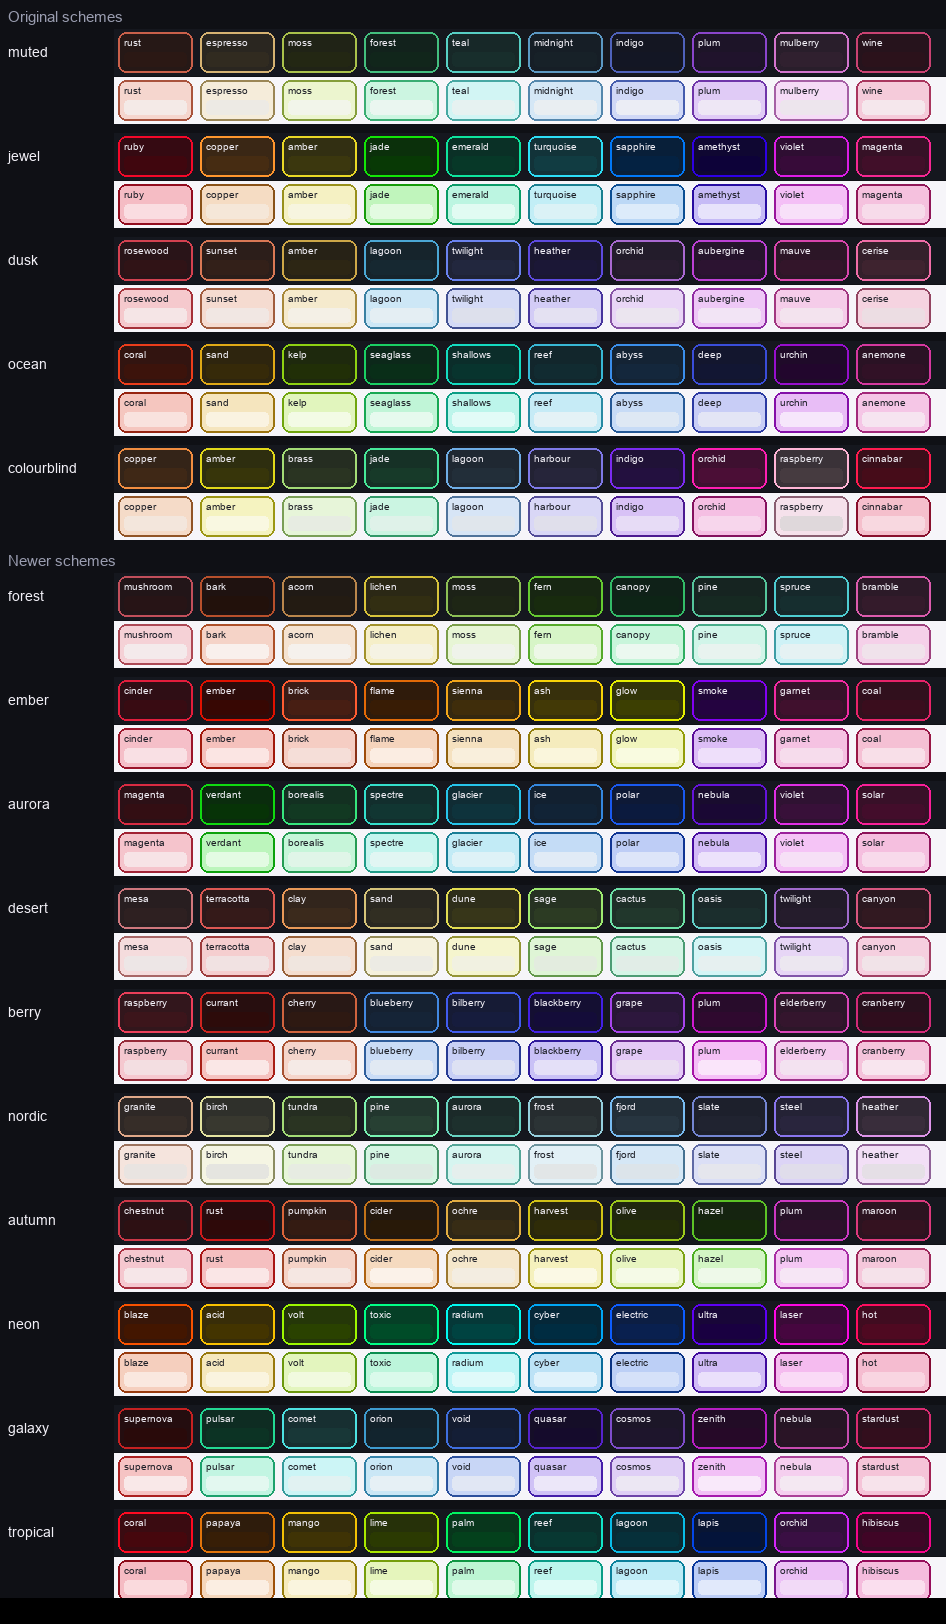
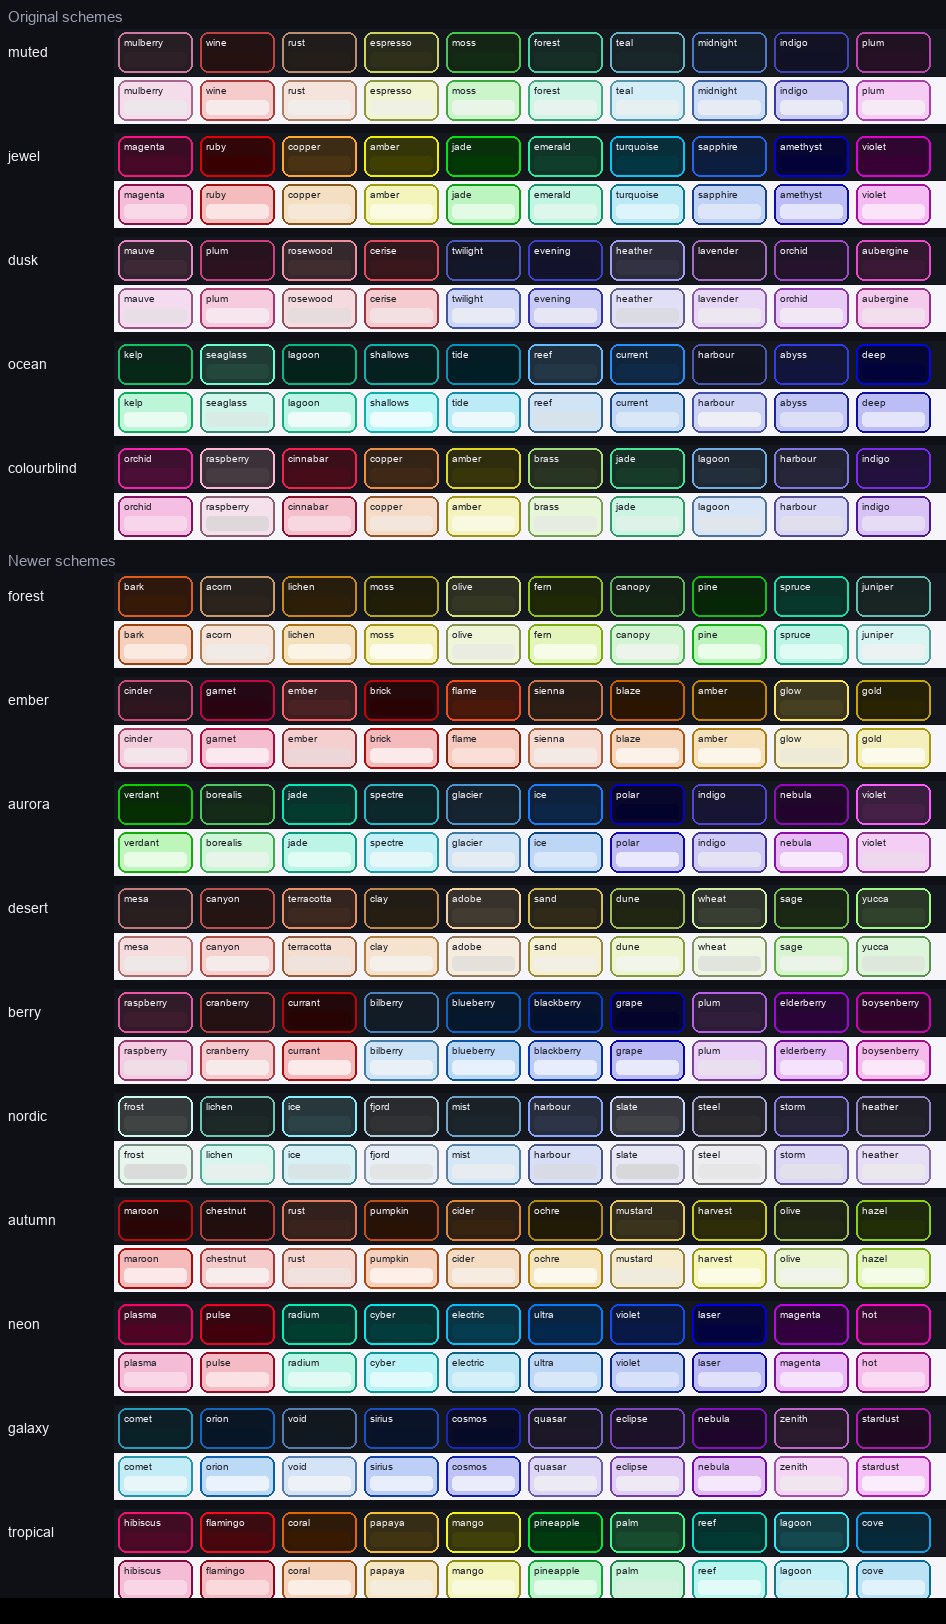
Keep each themed scheme inside its own colour range
Ocean is now only blues and teals, ember only reds and oranges, forest
only greens and browns, nordic only cool greys, and so on. Inside a range
the cards are told apart by lightness and strength as well as hue, and
every pair still passes the distinctness test in both modes. Muted, jewel
and colourblind keep the full rainbow. Palettes are stored interleaved so
neighbouring tabs get far-apart colours.

Changed region(s): [[0.1226, 0.0, 1.0, 0.9852], [0.6131, 0.2155, 0.6438, 0.2463], [0.3066, 0.5542, 0.3372, 0.585]]

diff --git a/scripts/tint.py b/scripts/tint.py
@@ -27,25 +27,25 @@ STATE_DIR = w.TINT_DIR
 # Each scheme lists its dark tab backgrounds as (name, hex). The light mode of a
 # scheme uses the same hues as soft light backgrounds, made by light_of().
 DARK = {
-    # Dark, quiet backgrounds.
+    # Soft, greyish colours from every part of the rainbow. The default.
     "muted": [
-        ("midnight", "172128"), ("plum", "20132c"), ("forest", "11261b"), ("wine", "2b121b"), ("teal", "182e2c"),
-        ("espresso", "312b20"), ("indigo", "131624"), ("moss", "232713"), ("rust", "2b1814"), ("mulberry", "30202f"),
+        ("mulberry", "2d2026"), ("forest", "162e26"), ("wine", "261111"), ("teal", "1a272a"), ("rust", "241e1a"),
+        ("midnight", "141d2c"), ("espresso", "2f301a"), ("indigo", "111126"), ("moss", "132a14"), ("plum", "251123"),
     ],
-    # Deeper, more saturated colours that are easy to tell apart.
+    # Deep, rich colours from every part of the rainbow.
     "jewel": [
-        ("sapphire", "042242"), ("emerald", "073828"), ("ruby", "40060e"), ("amethyst", "0d0239"), ("amber", "3b370e"),
-        ("turquoise", "113c42"), ("jade", "083905"), ("violet", "370b39"), ("copper", "462c12"), ("magenta", "410f29"),
+        ("magenta", "470926"), ("emerald", "0f3e2c"), ("ruby", "390001"), ("turquoise", "033643"), ("copper", "4a3312"),
+        ("sapphire", "0c1e40"), ("amber", "3e3f00"), ("amethyst", "020138"), ("jade", "023905"), ("violet", "380035"),
     ],
-    # Twilight purples and roses, with sunset orange and amber.
+    # Only purples, lilacs, mauves and dusty roses.
     "dusk": [
-        ("twilight", "22273e"), ("orchid", "281d2f"), ("rosewood", "301316"), ("lagoon", "162831"), ("heather", "1b1736"),
-        ("sunset", "332019"), ("mauve", "33152a"), ("amber", "2d2614"), ("aubergine", "2c1331"), ("cerise", "3e232f"),
+        ("twilight", "141629"), ("aubergine", "3b1835"), ("evening", "12122d"), ("mauve", "3c2935"), ("heather", "333242"),
+        ("plum", "2c121e"), ("lavender", "241b29"), ("rosewood", "402d30"), ("orchid", "24132b"), ("cerise", "39171c"),
     ],
-    # Sea blues and teals, with coral, sand, kelp and urchin.
+    # Only sea greens, teals and blues, from shallows to the deep.
     "ocean": [
-        ("abyss", "14273c"), ("shallows", "08342e"), ("coral", "3c130b"), ("kelp", "212f07"), ("deep", "121633"),
-        ("sand", "362a09"), ("urchin", "22062d"), ("seaglass", "092e18"), ("anemone", "311126"), ("reef", "112b31"),
+        ("kelp", "062817"), ("reef", "243747"), ("seaglass", "24473c"), ("current", "0f2a46"), ("lagoon", "03231a"),
+        ("harbour", "111321"), ("shallows", "042120"), ("abyss", "11143d"), ("tide", "011e26"), ("deep", "000239"),
     ],
     # Ten hues picked by simulating protanopia, deuteranopia and tritanopia, so
     # every pair of card colours stays as different as ten colours allow for each.
@@ -53,55 +53,55 @@ DARK = {
         ("cinnabar", "460c19"), ("copper", "3f2816"), ("amber", "37350a"), ("brass", "2a3422"), ("jade", "173a29"),
         ("lagoon", "222e39"), ("harbour", "26253a"), ("indigo", "23103f"), ("orchid", "4b0e36"), ("raspberry", "463b40"),
     ],
-    # Pines, mosses, bark and mushrooms.
+    # Only greens and woody browns.
     "forest": [
-        ("pine", "162922"), ("fern", "182b0e"), ("moss", "1e2615"), ("bark", "22110b"), ("lichen", "322e12"),
-        ("spruce", "162e2f"), ("bramble", "341b2b"), ("acorn", "231b12"), ("canopy", "0d2416"), ("mushroom", "271416"),
+        ("bark", "371908"), ("fern", "1f2906"), ("acorn", "2c241c"), ("canopy", "142314"), ("lichen", "2d1f07"),
+        ("pine", "062606"), ("moss", "201e06"), ("spruce", "08382b"), ("olive", "343723"), ("juniper", "182523"),
     ],
-    # Fire reds, flame oranges, coal and smoke.
+    # Only fire colours: reds, oranges and golds.
     "ember": [
-        ("ember", "370703"), ("flame", "381c05"), ("ash", "423906"), ("coal", "3a0d1d"), ("glow", "3c3f02"),
-        ("cinder", "380b12"), ("smoke", "240340"), ("brick", "471e13"), ("garnet", "40102d"), ("sienna", "3f2d0b"),
+        ("garnet", "290410"), ("sienna", "2e1d15"), ("cinder", "2f151e"), ("blaze", "2c1500"), ("ember", "4a2224"),
+        ("amber", "2c1d00"), ("brick", "290304"), ("glow", "474020"), ("flame", "4a1909"), ("gold", "292301"),
     ],
-    # Northern-lights greens, glacier blues and violets.
+    # Only northern-lights colours: greens, teals, blues and violets.
     "aurora": [
-        ("borealis", "123922"), ("glacier", "0e333c"), ("polar", "0b1a3e"), ("nebula", "1a0834"), ("solar", "430d2b"),
-        ("spectre", "113632"), ("violet", "381039"), ("ice", "112336"), ("verdant", "073307"), ("magenta", "330e13"),
+        ("verdant", "052e02"), ("ice", "0b2647"), ("borealis", "142b18"), ("polar", "03022d"), ("jade", "033b2f"),
+        ("indigo", "181534"), ("spectre", "0b292d"), ("nebula", "22032b"), ("glacier", "152430"), ("violet", "462047"),
     ],
-    # Sand, terracotta, sage and canyon reds.
+    # Only soft earth colours: sand, clay, terracotta and sage.
     "desert": [
-        ("sand", "312e22"), ("terracotta", "351a19"), ("sage", "2c3b23"), ("clay", "3b2a1c"), ("mesa", "2e2021"),
-        ("cactus", "21372c"), ("dune", "373619"), ("canyon", "321921"), ("oasis", "1b2e2d"), ("twilight", "251c2c"),
+        ("canyon", "261413"), ("sand", "2f2b18"), ("mesa", "2a1f1f"), ("dune", "212613"), ("terracotta", "3d291f"),
+        ("wheat", "393e32"), ("clay", "261d13"), ("sage", "1a2814"), ("adobe", "423b31"), ("yucca", "31422c"),
     ],
-    # Plums, raspberries, blueberries and cherries.
+    # Only berry colours: blues, purples, magentas and reds.
     "berry": [
-        ("plum", "2f092f"), ("raspberry", "3c151b"), ("blackberry", "140c39"), ("currant", "2d0b0a"), ("blueberry", "152437"),
-        ("cherry", "2e1912"), ("grape", "2d173d"), ("elderberry", "34152d"), ("cranberry", "2f0d1d"), ("bilberry", "161c3d"),
+        ("blueberry", "05182d"), ("elderberry", "2a0338"), ("bilberry", "121c26"), ("boysenberry", "300229"), ("blackberry", "04112e"),
+        ("raspberry", "3c1c2d"), ("grape", "03032b"), ("cranberry", "261112"), ("plum", "311e3b"), ("currant", "280303"),
     ],
-    # Fjord blues, frost, pine and birch.
+    # Only cool greys with a hint of blue or green.
     "nordic": [
-        ("fjord", "273540"), ("slate", "202330"), ("frost", "2b3335"), ("pine", "274033"), ("granite", "362d28"),
-        ("aurora", "1d302d"), ("heather", "392d3b"), ("birch", "38382f"), ("tundra", "2a3422"), ("steel", "29253d"),
+        ("lichen", "1c2926"), ("harbour", "2e3447"), ("frost", "404443"), ("slate", "424347"), ("ice", "2d4246"),
+        ("steel", "2b2b2e"), ("fjord", "303233"), ("storm", "272438"), ("mist", "1c252b"), ("heather", "232129"),
     ],
-    # Rust, ochre, olive, maroon and pumpkin.
+    # Only autumn leaves: maroon, rust, pumpkin, ochre and olive.
     "autumn": [
-        ("rust", "2e0909"), ("ochre", "372c15"), ("olive", "232c09"), ("maroon", "341220"), ("pumpkin", "341b12"),
-        ("chestnut", "2d1013"), ("harvest", "2f2c08"), ("cider", "281908"), ("hazel", "15280b"), ("plum", "2d102b"),
+        ("maroon", "2a0505"), ("ochre", "211a05"), ("chestnut", "210e0d"), ("mustard", "3b341d"), ("rust", "3b231d"),
+        ("harvest", "2d2d08"), ("pumpkin", "281205"), ("olive", "222714"), ("cider", "362310"), ("hazel", "212e06"),
     ],
-    # Bright, saturated electric colours. The easiest to tell apart.
+    # Only bright synthwave colours: cyans, blues, violets and pinks.
     "neon": [
-        ("cyber", "002c41"), ("laser", "46063f"), ("volt", "2a4200"), ("ultra", "190041"), ("blaze", "431600"),
-        ("acid", "433400"), ("electric", "09204f"), ("toxic", "004c28"), ("hot", "4f0921"), ("radium", "004341"),
+        ("radium", "003f30"), ("laser", "02023e"), ("cyber", "023c3d"), ("magenta", "32003d"), ("electric", "063c4f"),
+        ("hot", "450537"), ("ultra", "04284d"), ("plasma", "4f0424"), ("violet", "081847"), ("pulse", "41000b"),
     ],
-    # Deep space blues, nebula pinks and violets.
+    # Only deep night-sky blues and violets.
     "galaxy": [
-        ("void", "141e36"), ("nebula", "2a1426"), ("comet", "183737"), ("quasar", "150b2c"), ("stardust", "330e1d"),
-        ("orion", "12242e"), ("pulsar", "0c3324"), ("supernova", "290a0a"), ("cosmos", "1e152c"), ("zenith", "260928"),
+        ("comet", "0a2128"), ("quasar", "1c1827"), ("orion", "061626"), ("eclipse", "1c1228"), ("void", "12181f"),
+        ("nebula", "1d0629"), ("sirius", "081329"), ("zenith", "2c1b2e"), ("cosmos", "070a27"), ("stardust", "200720"),
     ],
-    # Coral, mango, lime, lagoon and hibiscus.
+    # Only tropical colours: pinks, corals, mangos and lagoon blues.
     "tropical": [
-        ("coral", "46070d"), ("mango", "3f3305"), ("lime", "2b3a02"), ("lagoon", "06303a"), ("hibiscus", "400526"),
-        ("palm", "04411c"), ("lapis", "04143a"), ("orchid", "3a0f43"), ("papaya", "371e06"), ("reef", "083832"),
+        ("hibiscus", "4d0926"), ("pineapple", "003a0f"), ("flamingo", "47070c"), ("palm", "174d2e"), ("coral", "381a01"),
+        ("reef", "023832"), ("papaya", "413413"), ("lagoon", "14494f"), ("mango", "40410a"), ("cove", "062a3a"),
     ],
 }
 PALETTE_SIZE = 10                                # every scheme has this many colours

diff --git a/tests/test_tint.py b/tests/test_tint.py
@@ -131,7 +131,7 @@ def test_every_scheme_keeps_every_card_distinct_in_both_modes():
             labs = [_lab(w.accent(h, mode), identity) for _, h in tint.palette(scheme, mode)]
             closest = min(sum((p - q) ** 2 for p, q in zip(a, b)) ** 0.5
                           for a, b in itertools.combinations(labs, 2))
-            assert closest > 15, (scheme, mode, closest)
+            assert closest > 14, (scheme, mode, closest)
 
 
 def test_every_scheme_is_selectable():

diff --git a/README.md b/README.md
@@ -125,25 +125,25 @@ There are fifteen colour schemes, and each comes in a dark and a light version. 
 
 | Scheme | Colours | Feel |
 | --- | --- | --- |
-| **muted** | 10 | Quiet, low-saturation colours. The default. |
-| **jewel** | 10 | Richer sapphires, emeralds and rubies that are easy to tell apart. |
-| **dusk** | 10 | Twilight purples and roses, with sunset orange and amber. |
-| **ocean** | 10 | Sea blues and teals, with coral, sand, kelp and urchin. |
-| **colourblind** | 10 | Warm reds and golds, jade, blues, indigo and pinks. |
-| **forest** | 10 | Pines, mosses, bark and mushrooms. |
-| **ember** | 10 | Fire reds, flame oranges, coal and smoke. |
-| **aurora** | 10 | Northern-lights greens, glacier blues and violets. |
-| **desert** | 10 | Sand, terracotta, sage and canyon reds. |
-| **berry** | 10 | Plums, raspberries, blueberries and cherries. |
-| **nordic** | 10 | Fjord blues, frost, pine and birch. |
-| **autumn** | 10 | Rust, ochre, olive, maroon and pumpkin. |
-| **neon** | 10 | Bright, saturated electric colours. The easiest to tell apart. |
-| **galaxy** | 10 | Deep space blues, nebula pinks and violets. |
-| **tropical** | 10 | Coral, mango, lime, lagoon and hibiscus. |
+| **muted** | 10 | Soft, greyish colours from every part of the rainbow. The default. |
+| **jewel** | 10 | Deep, rich colours from every part of the rainbow. |
+| **dusk** | 10 | Only purples, lilacs, mauves and dusty roses. |
+| **ocean** | 10 | Only sea greens, teals and blues, from shallows to the deep. |
+| **colourblind** | 10 | Colours picked to stay distinct for protanopia, deuteranopia and tritanopia. |
+| **forest** | 10 | Only greens and woody browns. |
+| **ember** | 10 | Only fire colours: reds, oranges and golds. |
+| **aurora** | 10 | Only northern-lights colours: greens, teals, blues and violets. |
+| **desert** | 10 | Only soft earth colours: sand, clay, terracotta and sage. |
+| **berry** | 10 | Only berry colours: blues, purples, magentas and reds. |
+| **nordic** | 10 | Only cool greys with a hint of blue or green. |
+| **autumn** | 10 | Only autumn leaves: maroon, rust, pumpkin, ochre and olive. |
+| **neon** | 10 | Only bright synthwave colours: cyans, blues, violets and pinks. |
+| **galaxy** | 10 | Only deep night-sky blues and violets. |
+| **tropical** | 10 | Only tropical colours: pinks, corals, mangos and lagoon blues. |
 
 **Every scheme has ten colours**, so ten tabs can be open before any colour repeats.
 
-**Schemes differ in strength as well as hue.** Cards and outlines keep each tab colour's own saturation and depth. So muted and nordic stay soft and greyish, while jewel, tropical and neon are vivid. A test checks that every pair of cards in every scheme stays clearly different in both light and dark mode.
+**Each themed scheme stays inside its own colours.** Ocean is only blues and teals, ember only reds and oranges, nordic only cool greys. Cards in a scheme are told apart by lightness and strength as well as hue, because cards and outlines keep each tab colour's own saturation and depth. Muted, jewel and colourblind span the whole rainbow for the most contrast. A test checks that every pair of cards in every scheme stays clearly different in both light and dark mode.
 
 **The colourblind scheme was chosen by simulation.** Its colours were picked so that every pair of cards stays as different as possible under simulated protanopia, deuteranopia and tritanopia. A test in the suite checks this, so it stays true if the colours are ever edited.
 
